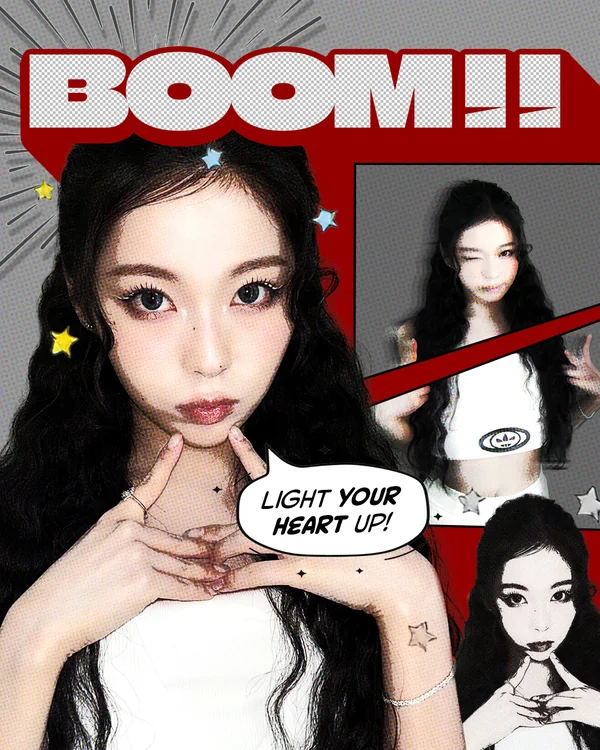
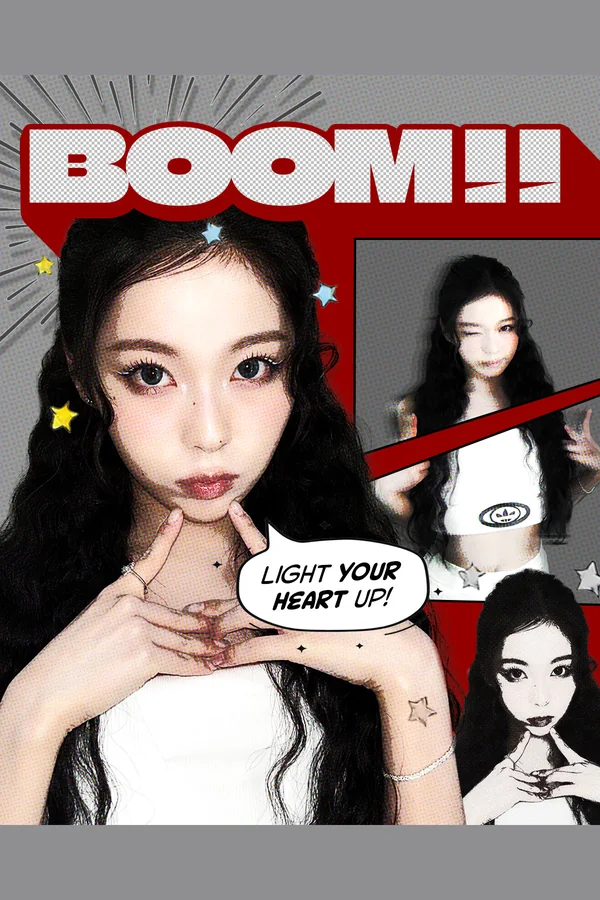
Revert poster 5:7 frames: back to 2:3 thumbnails with same-colour bands
Claude-Session: https://claude.ai/code/session_01LjVCjRoNRHvuo7CHgCXafM

diff --git a/src/data/works.ts b/src/data/works.ts
@@ -34,8 +34,7 @@ export interface Work {
   thumbnailMobile?: string; // 선택: 모바일(700px 이하) 전용 썸네일
   thumbnailFit?: 'cover' | 'contain'; // contain = 이미지 전체를 잘리지 않게 표시
   thumbnailBg?: string;
-  thumbnailSize?: [number, number]; // 지정하면 정사각형 대신 원본 비율 그대로 표시 — [가로, 세로]
-  thumbnailAspect?: string; // 썸네일 칸 비율 (예: '5 / 7') — 포스터는 이 칸 안에 contain 으로 배치
+  thumbnailSize?: [number, number]; // 지정하면 정사각형 대신 원본 비율 그대로 표시 (포스터 등) — [가로, 세로]
   imageSize?: [number, number]; // 상세 이미지 원본 크기 (로딩 중 자리 확보용) // contain일 때 남는 영역 색 (이미지 배경색과 맞추기)
   image?: string;
   imageAlt?: string;
@@ -149,8 +148,7 @@ export const works: Work[] = [
     description: placeholderText,
     thumbnail: 'works/poster-01-thumb.webp',
     thumbnailSrcSet: 'works/poster-01-thumb-600.webp 600w, works/poster-01-thumb.webp 1000w',
-    thumbnailFit: 'contain',
-    thumbnailAspect: '5 / 7', // 5:7 칸 안에 원본 비율 그대로 (잘림 없음, 여백 투명)
+    thumbnailSize: [1000, 1500],
     image: 'works/poster-01-full.webp',
     imageSize: [1600, 2400],
     imageAlt: '규진배이 디퍼런트걸 포스터',
@@ -164,8 +162,7 @@ export const works: Work[] = [
     description: placeholderText,
     thumbnail: 'works/poster-02-thumb.webp',
     thumbnailSrcSet: 'works/poster-02-thumb-600.webp 600w, works/poster-02-thumb.webp 1000w',
-    thumbnailFit: 'contain',
-    thumbnailAspect: '5 / 7', // 5:7 칸 안에 원본 비율 그대로 (잘림 없음, 여백 투명)
+    thumbnailSize: [1000, 1500], // 썸네일만 2:3 (위아래 단색 확장) — 상세는 원본 4:5
     image: 'works/poster-02-full.webp',
     imageSize: [1080, 1350],
     imageAlt: '널따라가 지훈 포스터',
@@ -179,8 +176,7 @@ export const works: Work[] = [
     description: placeholderText,
     thumbnail: 'works/poster-03-thumb.webp',
     thumbnailSrcSet: 'works/poster-03-thumb-600.webp 600w, works/poster-03-thumb.webp 1000w',
-    thumbnailFit: 'contain',
-    thumbnailAspect: '5 / 7', // 5:7 칸 안에 원본 비율 그대로 (잘림 없음, 여백 투명)
+    thumbnailSize: [1000, 1500],
     image: 'works/poster-03-full.webp',
     imageSize: [1600, 2400],
     imageAlt: '지우 이어 규진 포스터',
@@ -194,8 +190,7 @@ export const works: Work[] = [
     description: placeholderText,
     thumbnail: 'works/poster-04-thumb.webp',
     thumbnailSrcSet: 'works/poster-04-thumb-600.webp 600w, works/poster-04-thumb.webp 1000w',
-    thumbnailFit: 'contain',
-    thumbnailAspect: '5 / 7', // 5:7 칸 안에 원본 비율 그대로 (잘림 없음, 여백 투명)
+    thumbnailSize: [1000, 1500],
     image: 'works/poster-04-full.webp',
     imageSize: [1600, 2400],
     imageAlt: '한지훈 포스터',
@@ -209,8 +204,7 @@ export const works: Work[] = [
     description: placeholderText,
     thumbnail: 'works/poster-05-thumb.webp',
     thumbnailSrcSet: 'works/poster-05-thumb-600.webp 600w, works/poster-05-thumb.webp 1000w',
-    thumbnailFit: 'contain',
-    thumbnailAspect: '5 / 7', // 5:7 칸 안에 원본 비율 그대로 (잘림 없음, 여백 투명)
+    thumbnailSize: [1000, 1500],
     image: 'works/poster-05-full.webp',
     imageSize: [1600, 2400],
     imageAlt: '규진 패스워드 포스터',
@@ -224,8 +218,7 @@ export const works: Work[] = [
     description: placeholderText,
     thumbnail: 'works/poster-06-thumb.webp',
     thumbnailSrcSet: 'works/poster-06-thumb-600.webp 600w, works/poster-06-thumb.webp 1000w',
-    thumbnailFit: 'contain',
-    thumbnailAspect: '5 / 7', // 5:7 칸 안에 원본 비율 그대로 (잘림 없음, 여백 투명)
+    thumbnailSize: [1000, 1500], // 썸네일만 2:3 (위아래 단색 확장) — 상세는 원본 4:5
     image: 'works/poster-06-full.webp',
     imageSize: [1080, 1350],
     imageAlt: '규진 붐 별 포스터',

diff --git a/src/styles/global.css b/src/styles/global.css
@@ -173,16 +173,6 @@ html { background: #FFFDFC; }
 /* 원본 비율 썸네일 (포스터): 잘림 없이 width 100% / height auto */
 .work-photo.natural { aspect-ratio: auto; }
 .work-photo.natural img { position: static; height: auto; object-fit: initial; }
-/* 포스터: 5:7 칸 안에 원본 비율 그대로(contain), 남는 여백은 투명 → 사이트 배경이 보임.
-   호버 그림자는 빈 여백이 아닌 포스터 모양에만 적용 */
-.work-photo.poster-frame { background: transparent; overflow: visible; }
-.work-photo.poster-frame img { transition: filter .35s ease; }
-@media (hover: hover) {
-  .work:hover .work-photo.poster-frame { box-shadow: none; }
-  .work:hover .work-photo.poster-frame img { filter: drop-shadow(0 20px 17px rgba(91, 44, 57, .16)); }
-}
-.work:focus-visible .work-photo.poster-frame { box-shadow: none; }
-.work:focus-visible .work-photo.poster-frame img { filter: drop-shadow(0 20px 17px rgba(91, 44, 57, .16)); }
 .work-info {
   position: absolute; left: 0; right: 0; top: 100%;
   padding-top: 14px; opacity: 0; transform: translateY(7px);

diff --git a/src/components/WorkThumb.tsx b/src/components/WorkThumb.tsx
@@ -20,11 +20,8 @@ export default function WorkThumb({ work }: { work: Work }) {
     }).join(', ');
     return (
       <div
-        className={`work-photo${work.thumbnailFit === 'contain' ? ' fit-contain' : ''}${work.thumbnailSize ? ' natural' : ''}${work.thumbnailAspect ? ' poster-frame' : ''}`}
-        style={{
-          ...(work.thumbnailBg ? { background: work.thumbnailBg } : {}),
-          ...(work.thumbnailAspect ? { aspectRatio: work.thumbnailAspect } : {}),
-        }}
+        className={`work-photo${work.thumbnailFit === 'contain' ? ' fit-contain' : ''}${work.thumbnailSize ? ' natural' : ''}`}
+        style={work.thumbnailBg ? { background: work.thumbnailBg } : undefined}
       >
         <picture>
           {work.thumbnailMobile && <source media="(max-width: 700px)" srcSet={asset(work.thumbnailMobile)} />}
